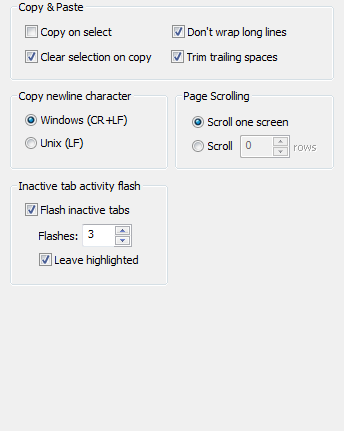
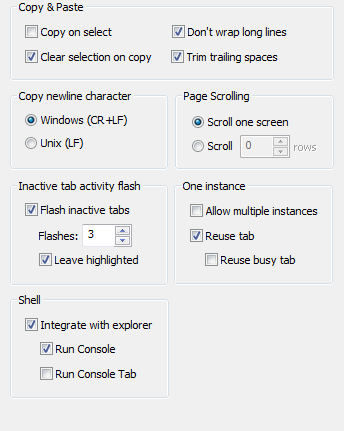
Help updates for single-instance and Explorer integration
by Vivian De Smedt, Sergey Kozlov

diff --git a/help/html/settings_behavior.html b/help/html/settings_behavior.html
@@ -89,6 +89,47 @@
 	<p class="block-row-description">
 		If checked the inactive tabs where some activities have been detected in the corresponding console are highlighted.
 	</p>
+	<br />
+
+	<h2>One instance</h2>
+
+	<p class="block-row-name">Allow multiple instances</p>
+	<p class="block-row-description">
+		If checked every call to Console2 will correspond to a new Console2 windows.
+		<br />
+		Otherwise only one instance of Console2 window will exist and the call to Console2 will correspond to tabs.
+	</p>
+
+	<p class="block-row-name">Reuse tab</p>
+	<p class="block-row-description">
+		If checked the call to Console2 will try to reuse existing tabs instead of creating new tabs for every call.
+	</p>
+
+	<p class="block-row-name">Reuse busy tab</p>
+	<p class="block-row-description">
+		If checked the call to Console2 will not reuse existing busy tabs when searching to reuse tabs.
+	</p>
+	<br />
+
+	<h2>Shell</h2>
+
+	<p class="block-row-name">Integrate with explorer</p>
+	<p class="block-row-description">
+		Can be checked if and only if Console2 run with Administrator privilege.
+		<br />
+		If checked the explorer context menu could contains the Run Console and the Run Console Tab menu items.
+	</p>
+
+	<p class="block-row-name">Run Console</p>
+	<p class="block-row-description">
+		If checked the explorer context menu will contains the Run Console menu item.
+	</p>
+
+	<p class="block-row-name">Run Console Tab</p>
+	<p class="block-row-description">
+		If checked the explorer context menu will contains the Run Console Tab sub menu.
+	</p>
+	<br />
 </body>
 
 </html>

diff --git a/help/html/running.html b/help/html/running.html
@@ -63,6 +63,30 @@
 	</p>
 	<br/>
 
+	<p class="block-row-name">-reuse</p>
+	<p class="block-row-description">
+		Ask Console to try to reuse another instance if any instead of starting a new one.
+	</p>
+	<br/>
+
+	<p class="block-row-name">-new</p>
+	<p class="block-row-description">
+		Force Console to start a new instance.
+	</p>
+	<br/>
+
+	<p class="block-row-name">-reuse-tab</p>
+	<p class="block-row-description">
+		Ask Console to reuse an existing tab in an existing instance if any instead of starting a new instance.
+	</p>
+	<br/>
+
+	<p class="block-row-name">-new-tab</p>
+	<p class="block-row-description">
+		Ask Console to create a new tab in an existing instance if any instead of starting a new instance.
+	</p>
+	<br/>
+
 	<p>
 		<b>Note:</b> -t option is not used to set tab's title. It specifies one
 		of the names of the tabs defined in Console settings.
